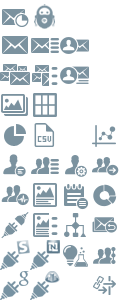
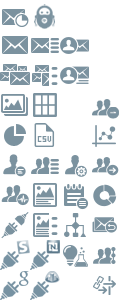
changes for deployment

Changed region(s): [[0.75, 0.33, 1.0, 0.42]]

diff --git a/apps/bridgemail/templates/main_container.html b/apps/bridgemail/templates/main_container.html
@@ -23,7 +23,7 @@
                         <li class="landing-pages"><a><i class="icon socialsharing"></i><span>Landing Pages</span></a></li>                                           
                         <li class="one-one-listing"><a><i class="icon socialsharing"></i><span>My 1:1 Emails</span></a></li>  
                         <li class="signup-forms"><a><i class="icon socialsharing"></i><span>Signup Forms</span></a></li>
-                        <li class="workflow-listing"><a><i class="icon socialsharing"></i><span>Workflows</span></a></li>
+                        <li class="workflow-listing" style="display: none"><a><i class="icon socialsharing"></i><span>Workflows</span></a></li>
 
                     </ul>
                 </li>
@@ -35,17 +35,18 @@
                         <li class="new-graphics"><a><i class="icon graphic"></i><span>Image Gallery</span></a></li>
                     </ul>
                 </li>
-                <li class="dd" style="margin-top:0px;"><h4><i class="icon contacts"></i><span>Contacts</span></h4>
+                <li class="dd" style="margin-top:-13px;"><h4><i class="icon contacts"></i><span>Contacts</span></h4>
                 	<ul>
                     	<li class="view-contacts"><a><i class="icon viewcontact"></i><span>Contacts</span></a></li>
                         <li class="view-lists"><a><i class="icon viewcontact"></i><span>Lists</span></a></li>
                         <li class="view-targets"><a><i class="icon viewcontact"></i><span>Targets</span></a></li>
                         <li class="view-tags"><a><i class="icon viewcontact"></i><span>Tags</span></a></li>
                         <li class="csv-upload"><a><i class="icon csvuploadicon"></i><span>CSV upload</span></a></li>
-                        <li class="supress-list"><a><i class="icon csvuploadicon"></i><span>CSV Upload To Supress List</span></a></li>
+                        <li class="supress-list" style="display: none"><a><i class="icon csvuploadicon"></i><span>CSV Upload To Supress List</span></a></li>
+                        <li class="exportsubscribers" style="display: none"><a><i class="icon viewcontact"></i><span>Export Subscriber</span></a></li>                        
                     </ul>
                 </li>
-                <li class="dd" style="margin-top:-87px;clear:both;"><h4><i class="icon reports"></i><span>Reports &amp; Analytics</span></h4>
+                <li class="dd reports-section" style="margin-top:-136px;clear:both;"><h4><i class="icon reports"></i><span>Reports &amp; Analytics</span></h4>
                 	<ul>
                     	<li class="camapign-report"><a><i class="icon emarketing"></i><span>Email</span></a></li>
                         <li class="bridge-statz"><a><i class="icon bridgestatz"></i><span>Bridge Statz</span></a></li>
@@ -216,10 +217,10 @@
                     </div>
                 </li>
                 
-                   <li class="exportsubscribers"><a ><i class="icon exportcontacts"></i><span>Export Subscribers</span></a><div class="schelpvid videobar" style="display:none;">                                                         
+                   <li class="exportsubscribers" style="visibility: hidden"><a ><i class="icon exportcontacts"></i><span>Export Subscribers</span></a><div class="schelpvid videobar" style="display:none;">                                                         
                         <a rel=""><i class="icon video"></i><span>Video</span></a>
                     </div></li>
-                    <li class="removesubscribers"><a ><i class="icon exportcontacts"></i><span>Remove Subscribers</span></a><div class="schelpvid videobar" style="display:none;">                                                         
+                    <li class="removesubscribers" style="visibility: hidden"><a ><i class="icon removecontacts"></i><span>Remove Subscribers</span></a><div class="schelpvid videobar" style="display:none;">                                                         
                         <a rel=""><i class="icon video"></i><span>Video</span></a>
                     </div></li>
                         
@@ -244,7 +245,7 @@
 
                     </div>
                 </li>
-                <li class="linkfilters">
+                <li class="linkfilters" style="display: none">
                         <a ><i class="icon linksfilter"></i><span>Link Filters</span></a><div class="schelpvid videobar" style="display:none;">                                                         
                         <a rel=""><i class="icon video"></i><span>Video</span></a>
                     </div>
@@ -282,7 +283,7 @@
                 <li class="nurture-tracks nt-li"><a ><i class="icon nurturetracks"></i><span>Nurture tracks</span></a><div class="schelpvid videobar" style="display: block;">                              
                         <a rel="99293579"><i class="icon video"></i><span>Video</span></a>
                     </div></li>                                         
-                    <li class="workflow-listing" ><a ><i class="icon workflows-tile"></i><span>Workflows</span></a><div class="schelpvid videobar">                              
+                    <li class="workflow-listing" style="visibility: hidden"><a ><i class="icon workflows-tile"></i><span>Workflows</span></a><div class="schelpvid videobar">                              
                         <a rel=""><i class="icon video"></i><span>Video</span></a>
                     </div></li>                                         
                  <li class="new-emailbot" data-type="E"><a ><i class="icon n_emailbot"></i><span>Email Bot</span></a><div class="schelpvid videobar" >
@@ -371,12 +372,12 @@
                         <a ><i class="icon video"></i><span>Video</span></a>
                     </div></li>    
 
-                    <li class="bounced-email">
+                    <li class="bounced-email" style="display: none">
                         <a ><i class="icon bouncedemails"></i><span>Bounced Emails</span></a><div class="schelpvid videobar" style="display:none;">                                                         
                         <a rel=""><i class="icon video"></i><span>Video</span></a>
                         </div>                        
                     </li>
-                <li class="custom-reports">
+                <li class="custom-reports" style="display: none">
                         <a ><i class="icon customreports"></i><span>Custom Reports</span></a><div class="schelpvid videobar" style="display:none;">                                                         
                         <a rel=""><i class="icon video"></i><span>Video</span></a>
                     </div>                        

diff --git a/css/bridgemail.css b/css/bridgemail.css
@@ -748,10 +748,10 @@ i.icon{ float:right; margin:0 !important; width:35px; height:35px;}
 
 .icon.mlist {   background: url("../img/mlists.png") no-repeat scroll center center ;}
 .icon.mlist2 {   background: url("../img/mlists2.png") no-repeat scroll center center ;}
-.icon.dlgcoursecorrect {   background: url("../img/coursecontacts30.png") no-repeat scroll center center ;}
+.icon.dlgcoursecorrect {   background: url("../img/coursecorrect_org30.png") no-repeat scroll center center ;}
 .icon.textversion {   background: url("../img/plaintext24.png") no-repeat scroll center center ;}
 .icon.supress-w {   background: url("../img/suppress-w.png") no-repeat scroll center center ;}
-.icon.coursecorrect-w { background: url("../img/coursecorrect-w.png") no-repeat scroll center center ;}
+.icon.coursecorrect-w { background: url("../img/coursecorrect_org.png") no-repeat scroll center center ;}
 .icon.stop-w {   background: url("../img/unpublish24.png") no-repeat scroll center center ;}
 .icon.otolist {   background: url("../img/1-1emails.png") no-repeat scroll 2px center rgba(0, 0, 0, 0)}
 .icon.mworkflow {   background: url("../img/mworkflows.png") no-repeat scroll center center ;}
@@ -13382,6 +13382,7 @@ margin: 10px 0 0;
 .onetoonelisting {background: url("../img/1-1emails-listing.png") no-repeat scroll center center; }
 .bouncedemails {background: url("../img/bouncedemails.png") no-repeat scroll center center; }
 .exportcontacts {background: url("../img/exportcontacts.png") no-repeat scroll center center; }
+.removecontacts {background: url("../img/remove-contacts-w.png") no-repeat scroll center center; }
 .linksfilter {background: url("../img/linkfilter.png") no-repeat scroll center center; }
 .creports {background: url("../images/creports.png") no-repeat scroll center center; }
 .emarketing {background: url("../images/emarketing.png") no-repeat scroll center center; }

diff --git a/apps/bridgemail/contacts/html/subscriber.html b/apps/bridgemail/contacts/html/subscriber.html
@@ -10,7 +10,9 @@
                  <li style="width: auto;min-width: 120px;max-width:150px;overflow:hidden"><div class="score"><i class="icon score"></i>+<span class="score-value">0</span></div> 
                  <!--<a  class="sf"><img src="<%- this.app.get('path')%>img/sficon2.png" alt=""></a></li>-->                                  
                  <li style="float:right;width: auto;"><a  class="btn-red suppress-sub showtooltip" data-original-title="Click to suppress contact"><i class="icon supress-w"></i></a></li>
+                 <% if(this.app.testUsers.indexOf(this.app.get("user").userId)>-1){ %>
                  <li style="float:right;width: auto;"><a  class="btn-green coursecorrect-sub showtooltip" data-original-title="Click for course correct"><i class="icon coursecorrect-w"></i></a></li>   
+                 <% } %>
                  <li style="float:right;width: auto;"><a  class="btn-yellow manage-lists showtooltip" data-original-title="Click to manage lists"><i class="icon mlist2"></i></a></li>
                  <li style="float:right;width: auto;"><a  class="btn-green edit-profile showtooltip" data-original-title="Click to edit profile"><i class="icon editpro2"></i></a></li>
                  <li style="float:right;width: auto;"><a  class="btn-blue oto-sendmail showtooltip" data-original-title="Click to send email"><i class="icon otolist"></i></a></li>

diff --git a/apps/bridgemail/views/main_container.js b/apps/bridgemail/views/main_container.js
@@ -606,7 +606,7 @@ define(['jquery', 'backbone', 'app', 'views/common/header', 'text!templates/main
                     this.addWorkSpace({type: '', noTags: true, title: 'Export Subscribers', sub_title: 'Export Contacts', url: 'contacts/exportsubscribers', workspace_id: 'export_subscriber', 'addAction': false, tab_icon: 'exportsubscribers'});
                 },
                 removeSubscribers: function () {
-                    this.addWorkSpace({type: '', noTags: true, title: 'Remove Subscribers', sub_title: 'Remove Contacts', url: 'contacts/removesubscribers', workspace_id: 'export_subscriber', 'addAction': false, tab_icon: 'exportsubscribers'});
+                    this.addWorkSpace({type: '', noTags: true, title: 'Remove Subscribers', sub_title: 'Remove Contacts', url: 'contacts/removesubscribers', workspace_id: 'export_subscriber', 'addAction': false, tab_icon: 'removesubscribers'});
                 },
                 bouncedEmail: function () {
                     this.addWorkSpace({type: '', noTags: true, title: 'Bounced Emails', sub_title: 'Bounced Campaign Report', url: 'common/bouncereport', workspace_id: 'bouncedemail', 'addAction': false, tab_icon: 'bouncedemails'});

diff --git a/apps/bridgemail/app.js b/apps/bridgemail/app.js
@@ -246,7 +246,14 @@ define([
                     this.mainContainer.$(".local-adds").hide();
                     this.mainContainer.initializeIsotops();
                 }
-                 if(this.get("tipId")){
+                if(this.testUsers.indexOf(this.get("user").userId)>-1){
+                    this.mainContainer.$(".slidenav-dd .workflow-listing,.linkfilters,.bounced-email,.custom-reports,.supress-list,.slidenav-dd  .exportsubscribers").show();
+                    this.mainContainer.$(".tile-shortcuts .workflow-listing,.tile-shortcuts .exportsubscribers,.removesubscribers").css("visibility","visible");
+                }
+                else{
+                    this.mainContainer.$(".reports-section").css("margin-top","-70px");
+                }
+                if(this.get("tipId")){
                     this.mainContainer.tip_test();
                     this.mainContainer.$(".tipntest-toggle").show();
                     this.mainContainer.$(".workspace .ws-tabs").css('top','140px');

diff --git a/apps/bridgemail/workflow/workflows.js b/apps/bridgemail/workflow/workflows.js
@@ -113,7 +113,7 @@ define(['text!workflow/html/workflows.html', 'jquery.searchcontrol','jquery.high
                 },
                 createWorkflowDialog: function(){
                     this.showLoadingMask("Creating New Workflow...",true);                    
-                    this.$(".workflowiframe").attr("src","/pms/trigger/workflowNew.jsp?BMS_REQ_TK="+this.app.get('bms_token')+"&fromNewUI=true");                    
+                    this.$(".workflowiframe").attr("src","/pms/trigger/workflow.jsp?BMS_REQ_TK="+this.app.get('bms_token')+"&fromNewUI=true");                    
                 },
                 showWorkflowWizard:function(){
                     this.$(".temp-filters,.create_new").hide();

diff --git a/css/changes.css b/css/changes.css
@@ -1373,13 +1373,17 @@ ul.tabs-btns li.active a{
     background-position: -90px -180px;
 }
 .wtab-linkfilters {
-     background-position: -90px -272px;
+     background-position: -90px -270px;
 }
 .wtab-bouncedemails {
      background-position: -90px -210px;
 }
 .wtab-exportsubscribers{
-     background-position: -90px -153px;
+     background-position: -90px -150px;
+}
+.wtab-removesubscribers{
+     background-position: -90px -90px;
+
 }
 .file-border{
     box-shadow : inset 0px 0px 20px rgba(0, 0, 0, 0.1);

diff --git a/apps/bridgemail/reports/summary/html/summary.html b/apps/bridgemail/reports/summary/html/summary.html
@@ -1,7 +1,7 @@
 <div class="stngbtns">    
     <a class="btn-green c-refresh"><span>Refresh Stats</span><i class="icon refresh"></i></a>
     <a class="btn-blue c-settings"><i class="icon setting "></i><span>Message Settings</span></a>
-    <% if(!this.trackId && !this.autobotId) {%>
+    <% if(!this.trackId && !this.autobotId && this.options.app.testUsers.indexOf(this.options.app.get("user").userId)>-1 ) {%>
     <a class="btn-yellow s-report" ><span>Snapshot Report</span></i></a>
     <% } %>
 </div>

diff --git a/apps/bridgemail/main.js b/apps/bridgemail/main.js
@@ -3,7 +3,7 @@
     require.config({  
        deps: ['main'], 
        waitSeconds:400,
-       urlArgs: "bust=1.463.3" ,
+       urlArgs: "bust=1.463.4" ,
        paths:{
            jquery:'shared/libs/jquery',
            underscore:'shared/libs/underscore',
